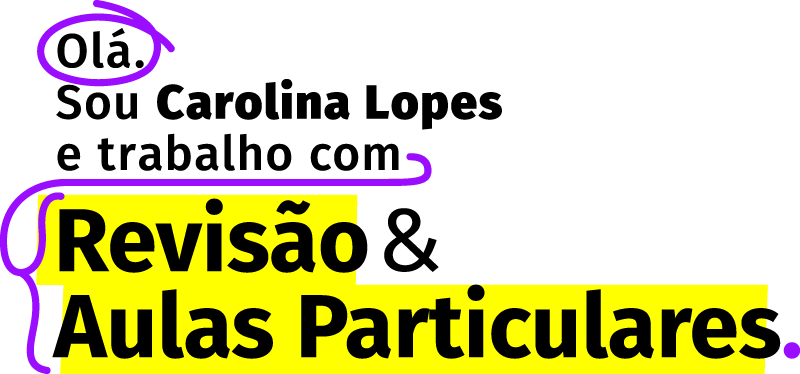
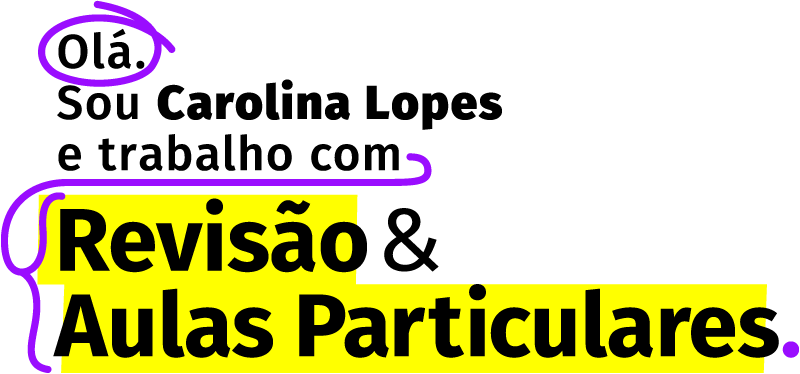
added srcset for capa wide

diff --git a/C-L4.3/inicio.html b/C-L4.3/inicio.html
@@ -66,9 +66,9 @@
 
 		<div class="row justify-content-center mx-0">
 
-			<div class="d-none d-md-block"><img class="img-fluid pb-5" src="Graphics/capa/capa-lg.png"></div>
+			<div class="d-none d-md-block"><img class="img-fluid pb-5" srcset="Graphics/capa/capa-lg.png 1x, Graphics/capa/capa-lg@2x.png 2x, Graphics/capa/capa-lg@3x.png 3x"></div>
 
-			<div class="d-md-none"><img class="img-fluid pb-5" src="Graphics/capa/capa-sm.png"></div>
+			<div class="d-md-none"><img class="img-fluid pb-5" srcset="Graphics/capa/capa-sm.png"></div>
 
 		</div>
 	</main>
